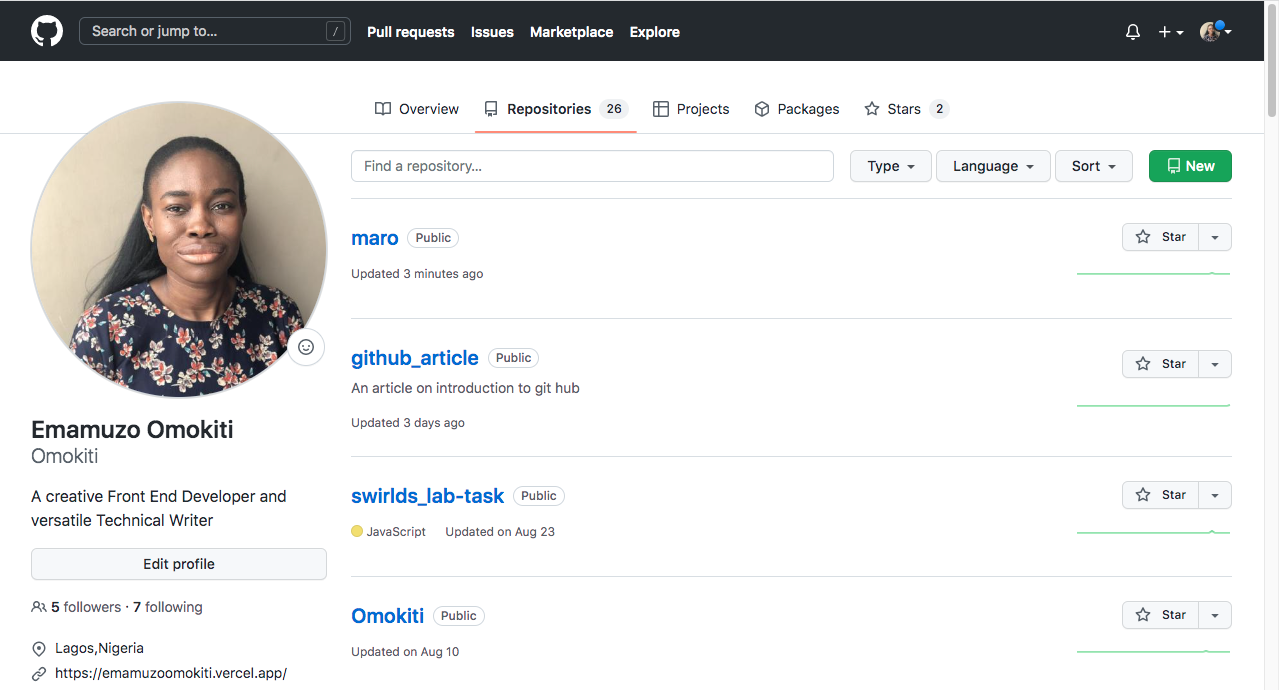
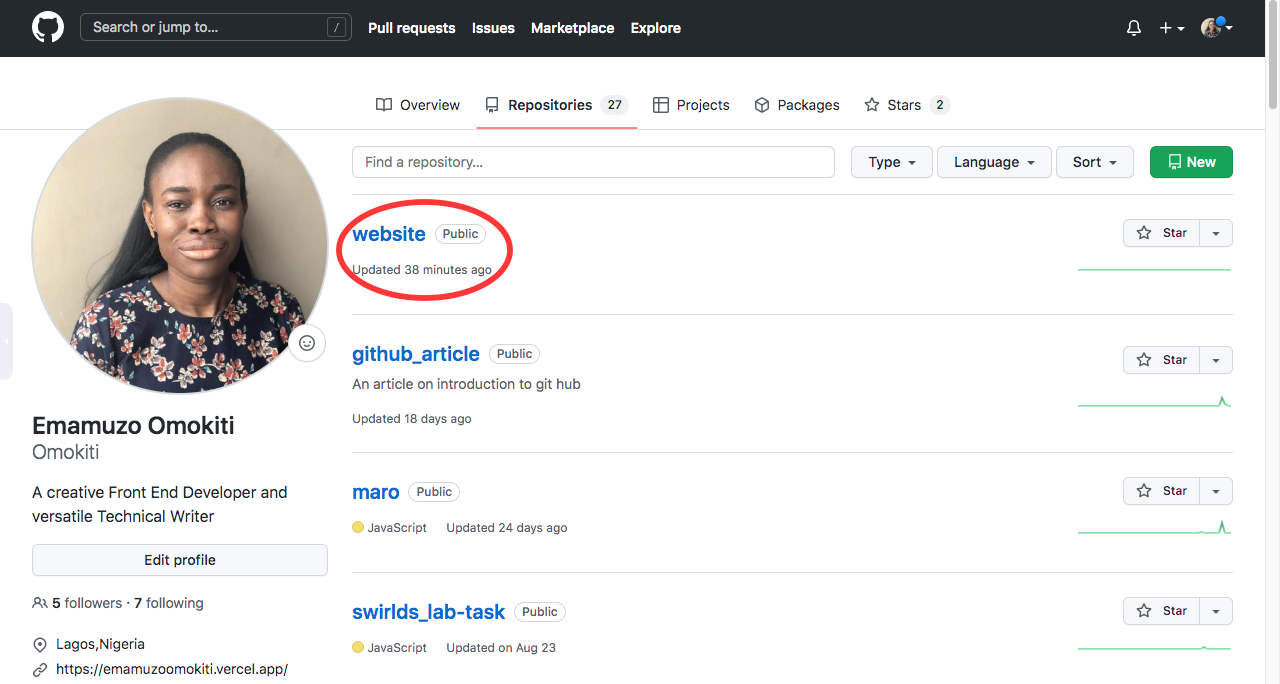
docs:made corrections to the article

diff --git a/Index.md b/Index.md
@@ -12,9 +12,11 @@
 ### What is GitHub
  GitHub has a lot of definitions but I like to define it as an online storage that can be used for storing your code and tracking your code, but there is more to GitHub than that. 
 
-We will be going with the definition from [liveaboutdotcom](https://www.liveabout.com/what-is-github-and-why-should-i-use-it-2071946).
+We will be going with the definition from [HubSpot](https://blog.hubspot.com/website/what-is-github-used-for)
  
-> GitHub is a hosting site where developers and programmers can upload the code they create and work collaboratively to improve it. A defining feature of GitHub is its robust version control system. The version control lets coders tweak software—potentially fixing bugs or improving efficiency—without affecting the software itself or risking the experience of any current users.
+> GitHub is an online software development platform. It's used for storing, tracking, and collaborating on software projects.
+It makes it easy for developers to share code files and collaborate with fellow developers on open-source projects. GitHub also serves as a social networking site where developers can openly network, collaborate, and pitch their work.
+
 
 ### Why GitHub?
 
@@ -34,6 +36,19 @@ GitHub has a large community. so imagine your code being seen by the large commu
 
 ### Git vs GitHub
 Most times we  confuse Git for GitHub and vice versa. Well, Git is a version control system that lets you manage and keep track of your source code history and GitHub is a hosting site where developers and programmers can upload the code they create and work collaboratively to improve it.
+
+There is a significant difference between Git and GitHub according to [intellipaat](https://intellipaat.com/blog/git-vs-github-difference/) some of the difference's are listed below
+
+| Git |   GitHub|
+|---|---|
+| Developed in the year 2005 by Linus Torvalds  | Developed in the year 2008 and purchased by Microsoft  |
+| Focuses on code sharing  | Focuses on source code hosting   |
+| Installed locally on a system  |  Hosted on the web   |
+| A software tool  | A service tool  |
+| Primarily, a command-line tool  | Administered through the web  |
+|Doesn’t have a user management feature|Has the user management feature|
+| A licensed open-source tool | A pay-for-use tier |
+| Has a minimal external tool configuration  | Supports third-party tool integration   |
 
 ### GitHub Workflow
 GitHub has a lot of commands but for this tutorial, we will touch on three of them which are essential in the GitHub workflow.;
@@ -59,7 +74,7 @@ There are six steps to clone a repository from GitHub.
 
 From the landing page click on the **Sign In** button.
  
-![github_landing_page](images/github_landing_page.png)
+![github_landing_page](images/github_sign_in.png)
 
 **Step 2**
 
@@ -71,13 +86,13 @@ Fill in your credentials
 
 You will be routed to the company's GitHub account. Click on the **Repository** tab.
 
-![mygithub_page](images/mygithub_page.png)
+![mygithub_page](images/overview_page.png)
 
 **Note**: I am using my personal account for the screenshot in step 3. I do not have the right to paste a company's own without permission.
 
 **Step 4**
 
-Click on the Repository that you were given to work on. I will be using the maro Repository.
+Click on the Repository that you were given to work on. I will be using the website Repository.
 
 ![repo_page](images/repo_page.png)
 
@@ -90,45 +105,49 @@ You can clone a repository by using any of the method below;
 2. SSH
 3. GitHub CLI
 
-![maro_page](images/maro_page.png)
+![website_page](images/website_page.png)
 
 For this article, we would concentrate on the Https method.
-Copy the URL "https://github.com/Omokiti/maro.git".
-Open your vs code and click on the terminal. 
+Copy the URL https://github.com/Omokiti/website.git
 
-Make sure you are in the correct directory. I am cloning mine to the "Desktop" folder on my system. 
+Open your Vscode and click on terminal then new terminal.
+![terminal_page](images/terminal.png)
+if you dont have a vscode you can download it from [Vscode](https://code.visualstudio).
+
+
+Make sure you are in the correct folder. I am cloning mine to the Desktop folder on my system. 
 
 ```
-git clone
+git clone https://github.com/Omokiti/website.git
 ``` 
-Use the command  above to clone the repository. i.e git clone the URL we copied from our repo on GitHub and hit enter
+Use the command  above to clone the repository. i.e git clone the URL you copied from your company's repo on GitHub and hit enter.
 
 ![vscode](images/vscode.png)
 
 **Step 6**
 
-Go to the directory you cloned your repo, you should be able to see your folder.
+Go to the folder you cloned your repo, you should be able to see your folder.
 
 ![my_desktop](images/my_desktop.png)
 
 ### How to do a Commit
 A commit is like saving a file after editing it. Remember you are working on the repository you cloned from the Company that just gave you your first gig. 
 
-So assume your first task is to change the background color of the sign-in button color in the Nav bar from blue to red on the dev branch and you are done with your task.
+So assume your first task is to create a sign-in button with red background color on the dev branch and you are done with your task.
 
 So before making a commit you have to first of all run this command in your terminal ;
 
 ```
 git add .
 ``` 
-The git add informs git that you want to include updates to a particular file
+The git add informs git that you want to include updates to all the files.
 
 ```
-git commit -m ""
+git commit -m " "
 ```
 The **m** stands for the message of your commit.
 
-**Note:** Do not commit without a message. 
+**Note:** Do not commit without a message because providing a commit message helps your team members or anyone that sees your commit know what you are doing. 
 
 ![commit](images/commit.png)
 
@@ -137,8 +156,11 @@ After you make the commit. you will run another command
 ```
 git push -u origin dev 
 ``` 
+git push helps you transfer your commits from your local repo to to a remote repo.
+
 Remember the branch you were assigned to for your task is the dev branch.
 
+You can read more about branches here [Git Branch](https://www.javatpoint.com/git-branch)
 
 **Note:** In another scenario your branch name can be anything you give it.
 
@@ -149,9 +171,6 @@ As the name implies you are pushing your changes to the company's Github account
 ```
 git push -u origin 
 ```
-when you are pushing your work to GitHub for the first time. 
-
-In subsequent push you make you can use only **git push**
 
 ### How to do a Pull Request
 
@@ -173,35 +192,19 @@ You will compare the dev branch to the main branch.write a comment that shows wh
 
 ![create pull request](images/create_pull_request.png)
 
-**Step 3**
-
-You will be routed to the pull request page scroll down to the bottom of the page and click on the **Merge pull request** button.
-
-![merge pull request](images/merge_pull_request.png)
-
-you can add an optional description to the description section and click on **Confirm merge** button.
-
-![optional](images/optional.png)
-
-**Step 4**
-
-Your pull request has been successfully merged.
-
-![sucess_pr](images/sucess_pr.png)
+Your Boss will review your PR and merge it if it meets the task requirement's.
 
 ### Difference between GitHub Desktop and GitHub CLI
+Git Hub Desktop and GitHub CLI are tools that can be used to create a repo, push, create a pull request etc in GitHub but have significant differences
 
-GitHub desktop is the GitHub application that you can install  on your system by visiting this [site](https://desktop.github.com/).
+|  GitHub Desktop | GitHub CLI  |
+|---|---|
+|GitHub desktop is the GitHub application that you can install  on your system by visiting this [site](https://desktop.github.com/). |GitHub CLI is the Command Line interface tool for GitHub that brings pull requests, issues, GitHub Actions, and other GitHub features to your terminal.  |
+| GitHub desktop is a super flexible tool  | GitHub CLI is a bit complex |
+| GitHub desktop offers a beautiful and structured User Interface| GitHub CLI offers a black screen|
+| It has a specific button for each and every Git command  | Rembering all the commands can be difficult |
 
-You can create a repo, push, create a pull request etc with your GitHub desktop app.
-
-**GitHub CLI** is the Command Line interface tool for GitHub that brings pull requests, issues, GitHub Actions, and other GitHub features to your terminal. 
-
-To be able to use Git and its commands on your system terminal you have to configure the GitHub CLI. 
-
-You can install GitHub CLI using this [site](https://github.com/cli/cli#installation)
 
 ### Conclusion
-Congrats on getting to the end of the article. 
-I hope that you have learned a lot about GitHub. 
-
+GitHub is an essential tool for every developer. It helps in storing of your code,communication and collaboration with other developers around the world,contributing to open source and also displaying your projects to the world.
+I hope that you have learned a lot about GitHub with this article.
